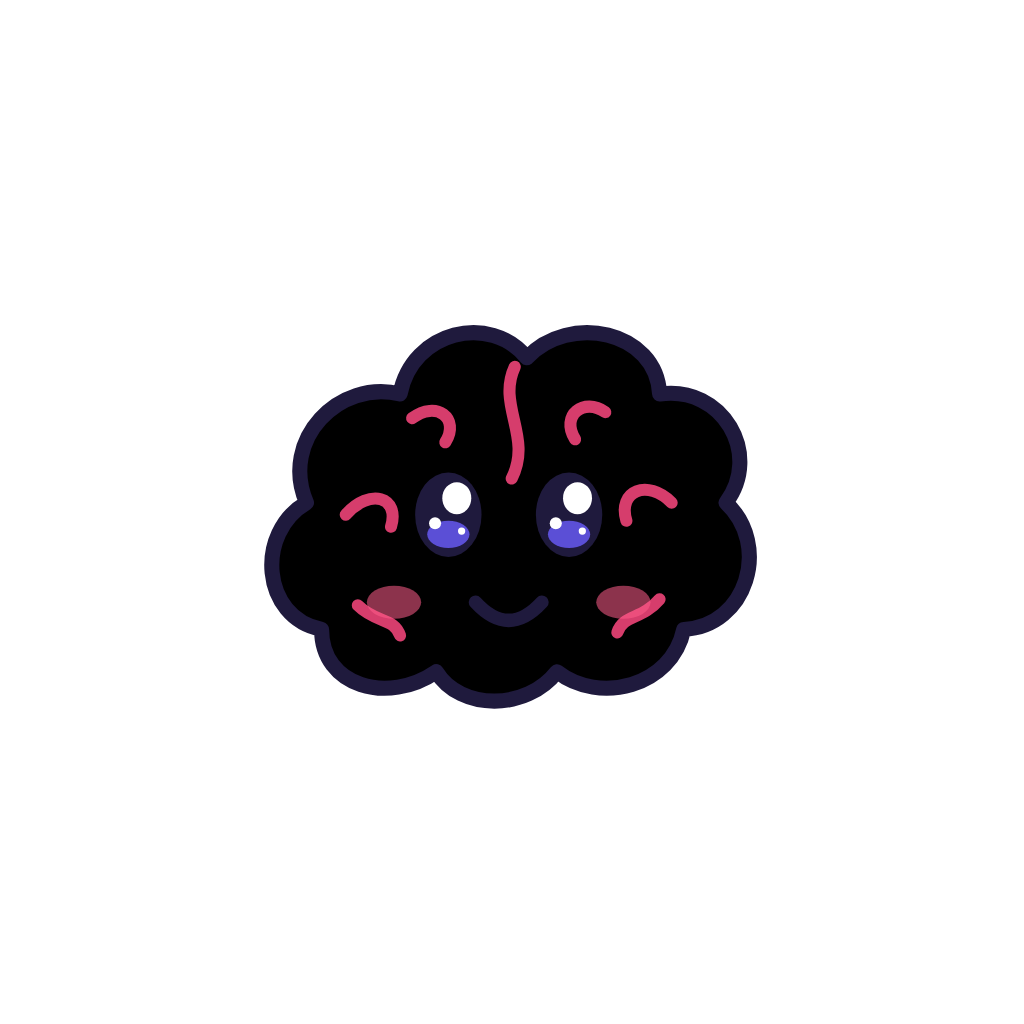
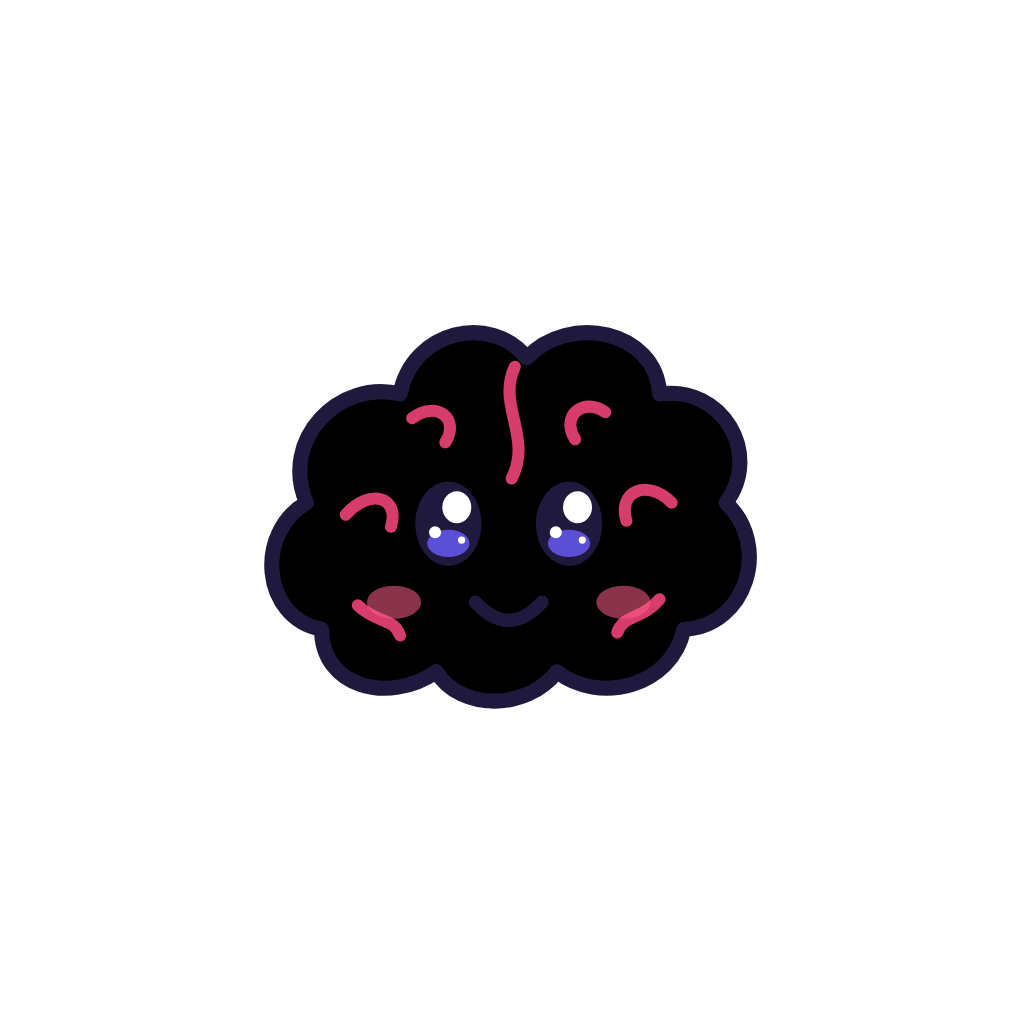
Mascotte : yeux redescendus un peu (entre les deux dernières positions)
Claude-Session: https://claude.ai/code/session_01YNgFjATS11oQipRLzsWoFF

Changed region(s): [[0.5312, 0.4375, 0.5938, 0.5625], [0.4062, 0.4688, 0.4688, 0.5625]]

diff --git a/src/components/mascot/geometry.ts b/src/components/mascot/geometry.ts
@@ -18,8 +18,8 @@ export const FOLDS = [
 ];
 
 export const EYES = [
-  { cx: 82, cy: 101 },
-  { cx: 122, cy: 101 },
+  { cx: 82, cy: 104 },
+  { cx: 122, cy: 104 },
 ];
 
 /**
@@ -85,14 +85,14 @@ export const ACCESSORIES: Record<string, { behindFace?: boolean; shapes: Shape[]
   },
   lunettes: {
     shapes: [
-      { kind: "circle", cx: 82, cy: 101, r: 19, fill: "none", stroke: INK, strokeWidth: 4 },
-      { kind: "circle", cx: 122, cy: 101, r: 19, fill: "none", stroke: INK, strokeWidth: 4 },
-      { kind: "path", d: "M 101 99 C 102 96 102 96 103 99", fill: "none", stroke: INK, strokeWidth: 4 },
+      { kind: "circle", cx: 82, cy: 104, r: 19, fill: "none", stroke: INK, strokeWidth: 4 },
+      { kind: "circle", cx: 122, cy: 104, r: 19, fill: "none", stroke: INK, strokeWidth: 4 },
+      { kind: "path", d: "M 101 102 C 102 99 102 99 103 102", fill: "none", stroke: INK, strokeWidth: 4 },
     ],
   },
   masque: {
     behindFace: true,
-    shapes: [{ kind: "path", d: "M 50 91 C 72 81 134 81 156 91 L 152 117 C 132 109 74 109 54 117 Z", fill: "#E5484D", stroke: INK, strokeWidth: 4 }],
+    shapes: [{ kind: "path", d: "M 50 94 C 72 84 134 84 156 94 L 152 120 C 132 112 74 112 54 120 Z", fill: "#E5484D", stroke: INK, strokeWidth: 4 }],
   },
   noeud: {
     shapes: [
